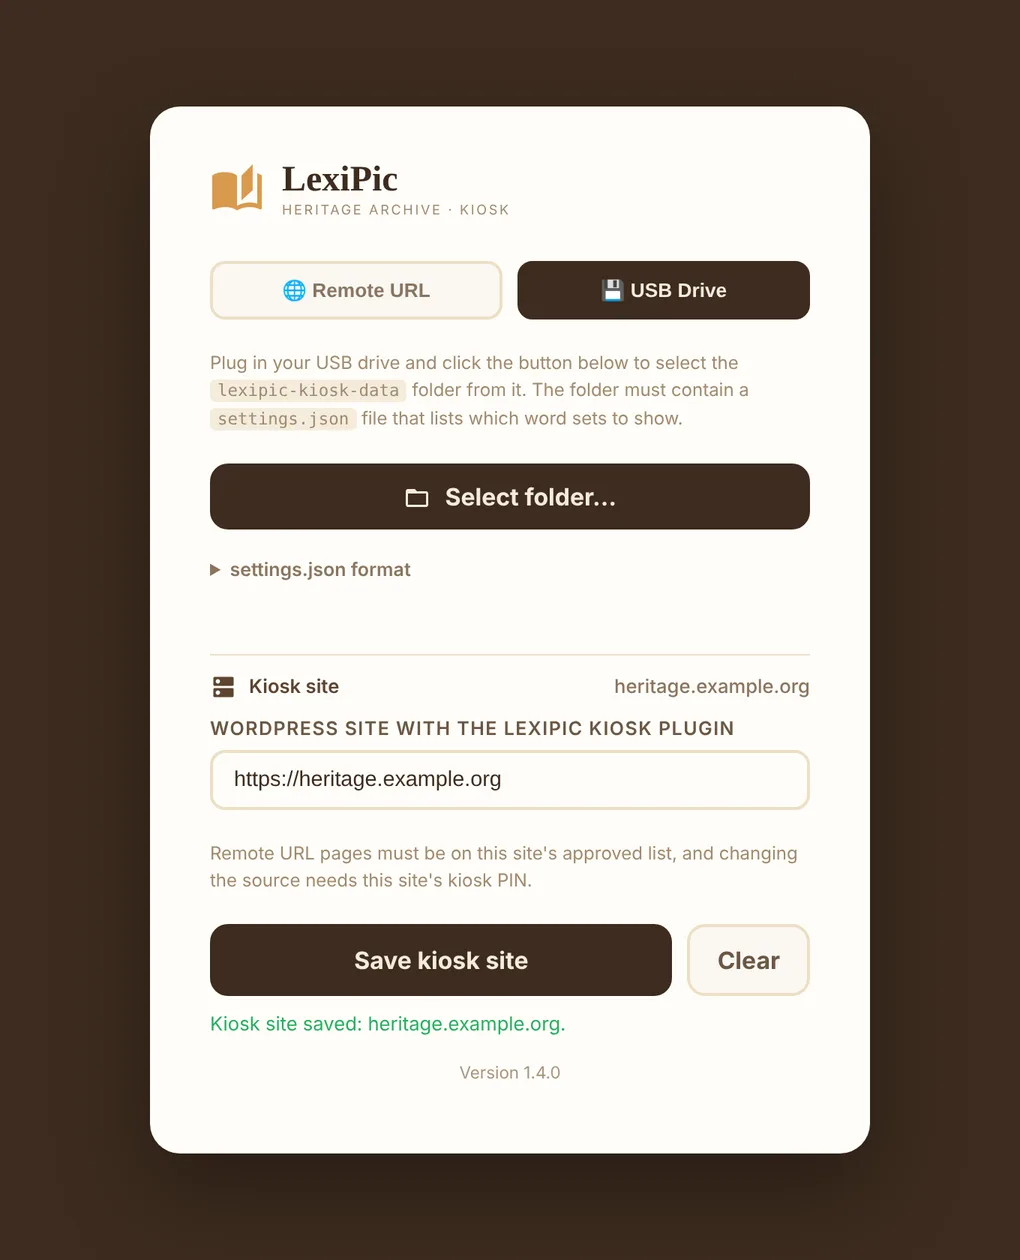
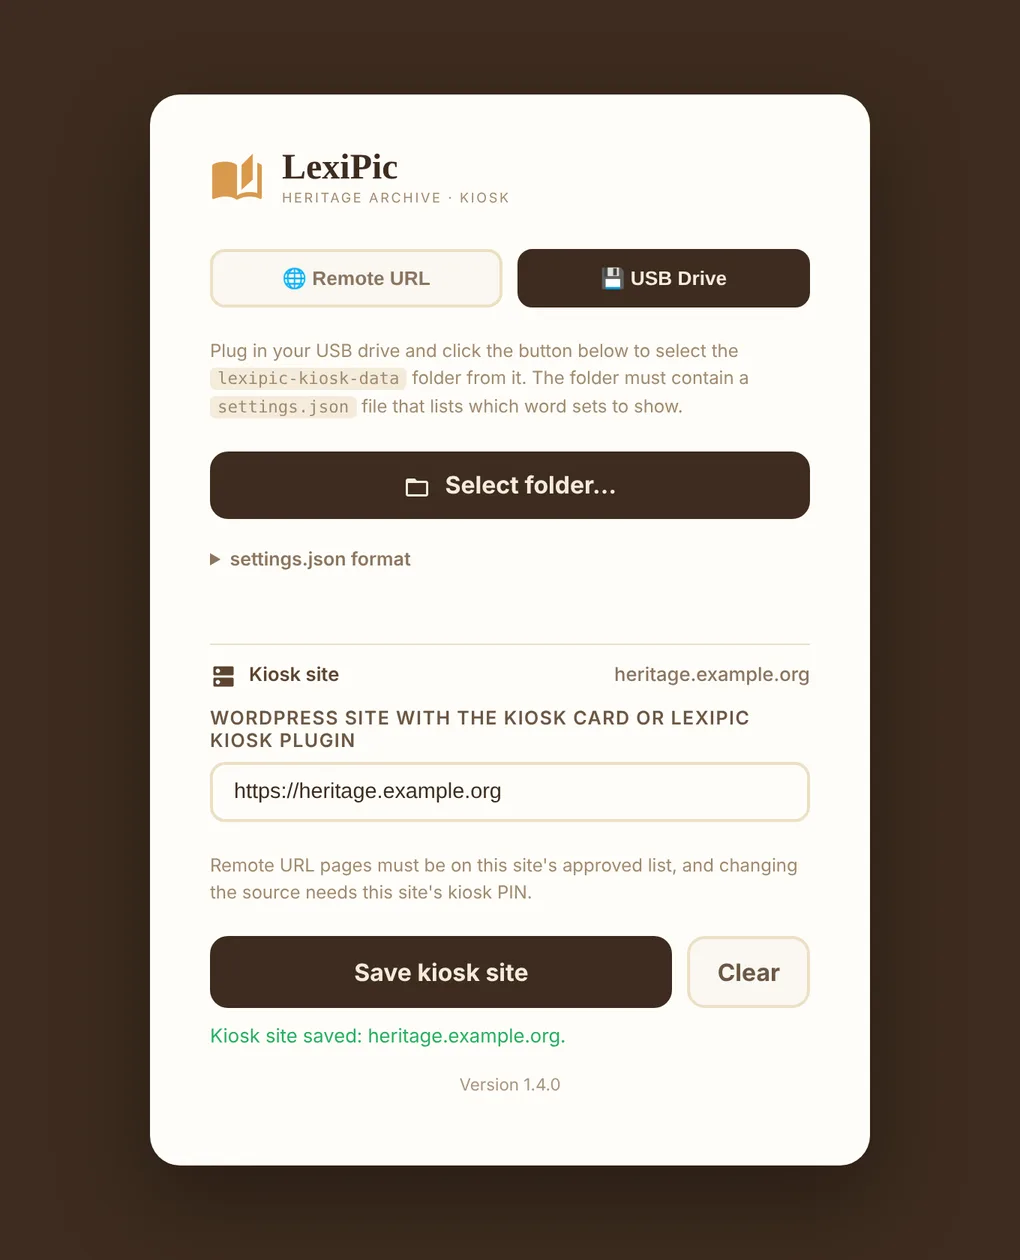
Add files via upload

diff --git a/lexipic/index.html b/lexipic/index.html
@@ -500,14 +500,14 @@ td:first-child code{white-space:nowrap}
 <p>USB mode needs <b>Chrome or Edge</b> (version 86 or later). It works whether or not a <a href="#kiosk-site">kiosk site</a> is set. After a restart the kiosk reopens the same folder by itself. If the browser wants permission again, a <span class="ui">Reconnect to saved USB folder</span> button appears. One tap reconnects, without picking the folder again.</p>
 
 <h2 id="kiosk-site">The kiosk site</h2>
-<p>The <b>kiosk site</b> is the WordPress site running the LexiPic Kiosk plugin. It provides two things: the list of approved pages for Remote URL, and the kiosk PIN. No site is built into the app. A new kiosk starts with none, and you enter it under <span class="ui">Kiosk site</span> at the bottom of the setup card.</p>
+<p>The <b>kiosk site</b> is a WordPress site running the <b>Kiosk Card plugin</b> (version 1.7.0 or later) or the <b>LexiPic Kiosk plugin</b>. It provides two things: the list of approved pages for Remote URL, and the kiosk PIN. No site is built into the app. A new kiosk starts with none, and you enter it under <span class="ui">Kiosk site</span> at the bottom of the setup card.</p>
 <div class="side-by">
-<figure><img class="zoom" src="img/kc-setup-url.webp" alt="A new kiosk's setup card: Remote URL selected, and below it the Kiosk site section open, marked Not set, with an empty box for the WordPress site with the LexiPic Kiosk plugin, a note that with no kiosk site Remote URL can't be used and changing the source is not PIN-protected while USB Drive works without one, and a Save kiosk site button" width="1020" height="1260" loading="lazy"><figcaption>A new kiosk: no kiosk site yet.</figcaption></figure>
+<figure><img class="zoom" src="img/kc-setup-url.webp" alt="A new kiosk's setup card: Remote URL selected, and below it the Kiosk site section open, marked Not set, with an empty box for the WordPress site with the Kiosk Card or LexiPic Kiosk plugin, a note that with no kiosk site Remote URL can't be used and changing the source is not PIN-protected while USB Drive works without one, and a Save kiosk site button" width="1020" height="1260" loading="lazy"><figcaption>A new kiosk: no kiosk site yet.</figcaption></figure>
 <figure><img class="zoom" src="img/kc-site-saved.webp" alt="The setup card after saving: Kiosk site heritage.example.org, the box showing https://heritage.example.org, a note that Remote URL pages must be on this site's approved list and changing the source needs this site's kiosk PIN, Save kiosk site and Clear buttons, and the message Kiosk site saved: heritage.example.org" width="1020" height="1260" loading="lazy"><figcaption>Kiosk site saved.</figcaption></figure>
 </div>
 <ol class="steps">
 <li>Type the site’s address, for example <code>https://example.org</code>. Plain <code>example.org</code> works too, and <code>https://</code> is added for you. If WordPress lives in a sub-folder, include it: <code>https://example.org/wp</code>.</li>
-<li>Press <span class="ui">Save kiosk site</span>. The kiosk first checks that the LexiPic Kiosk plugin answers at that address. If it doesn’t, nothing is saved and the message says why.</li>
+<li>Press <span class="ui">Save kiosk site</span>. The kiosk first checks that the site answers as a kiosk site. If it doesn’t, nothing is saved and the message says why.</li>
 </ol>
 <p>Only <code>https://</code> addresses are accepted, except <code>http://localhost</code> for testing. The address is saved on this kiosk only. <span class="ui">Clear</span> removes it after asking.</p>
 <table class="tbl">
@@ -520,8 +520,19 @@ td:first-child code{white-space:nowrap}
 </tbody></table>
 <div class="note warn"><b class="k">Set a kiosk site on public kiosks</b> Without one there is no PIN, so anyone who taps <span class="ui">⚙ source</span> can change what the kiosk shows. On a kiosk that visitors can reach, set the kiosk site so the PIN protects it, even if the kiosk only uses a USB drive.</div>
 
+<h3 id="plugin-kiosk-site">Setting up the kiosk site in the Kiosk Card plugin</h3>
+<p>In WordPress, go to <b>Kiosk Card</b> and find the <b>Kiosk Card app: kiosk site</b> card.</p>
+<figure><img class="zoom" src="img/plugin-kiosk-site.webp" alt="The Kiosk Card plugin's admin card 'Kiosk Card app: kiosk site': a ticked box 'Let the Kiosk Card app use this site as its kiosk site'; Address for the app with a Copy button; Approved domains, one per line; Kiosk PIN with 'A PIN is set', New PIN and Repeat boxes and Remove the PIN; Save app settings" width="1600" height="947" loading="lazy"><figcaption>The plugin’s kiosk-site settings, here on a test site.</figcaption></figure>
+<ol class="steps">
+<li>Tick <b>Let the Kiosk Card app use this site as its kiosk site</b>. It is off until you do.</li>
+<li>Under <b>Approved domains</b>, list the host names whose pages kiosks may show, one per line, such as <code>museum.example.org</code>. Pasted addresses are cut down to their host name. This site is listed to start with, so kiosks can show its own kiosk page.</li>
+<li>Type a <b>Kiosk PIN</b> of 4 to 12 digits twice. It is stored only as a hash. After five wrong tries from one address, the site refuses further tries for up to ten minutes.</li>
+<li>Press <span class="ui">Save app settings</span>, then copy the <b>Address for the app</b> and enter it under <span class="ui">Kiosk site</span> on each kiosk.</li>
+</ol>
+<p>The app needs WordPress addresses of the form <code>/wp-json/…</code>, so Settings › Permalinks must not be “Plain”; the card says so if it is. If the LexiPic Kiosk plugin is also active and already provides the kiosk site, Kiosk Card leaves it to that plugin and says so on the card.</p>
+
 <h2 id="url-mode">Remote URL</h2>
-<p><span class="ui">Remote URL</span> shows a kiosk web page full screen, such as a LexiPic Kiosk WordPress site’s kiosk page. It needs a <a href="#kiosk-site">kiosk site</a> and a connection. Enter the page’s full address and press <span class="ui">Display This URL</span>.</p>
+<p><span class="ui">Remote URL</span> shows a kiosk web page full screen, such as the kiosk page of a site with the Kiosk Card plugin. It needs a <a href="#kiosk-site">kiosk site</a> and a connection. Enter the page’s full address and press <span class="ui">Display This URL</span>.</p>
 <ul>
 <li>The page’s site must be on the kiosk site’s approved list. The hostname must match exactly. If the list cannot be reached and none is saved from before, the address is refused.</li>
 <li>If the page cannot be reached, a “Can’t reach the page” screen appears, and the kiosk tries again every few seconds until it loads.</li>
@@ -530,7 +541,7 @@ td:first-child code{white-space:nowrap}
 </ul>
 
 <h2 id="change-source">Changing the source (PIN)</h2>
-<p>Once a source is set, a small <span class="ui">⚙ source</span> button sits in the corner. With a kiosk site set, it asks for the kiosk PIN. This is the same PIN as the LexiPic Kiosk WordPress plugin’s kiosk admin, managed in WordPress. The PIN is checked by the kiosk site each time and never stored on the kiosk, so this needs a connection. After several wrong tries the kiosk asks you to wait a minute.</p>
+<p>Once a source is set, a small <span class="ui">⚙ source</span> button sits in the corner. With a kiosk site set, it asks for the kiosk PIN. The PIN is set in the plugin, in WordPress (see below). The PIN is checked by the kiosk site each time and never stored on the kiosk, so this needs a connection. After several wrong tries the kiosk asks you to wait a minute.</p>
 <div class="side-by">
 <figure><img class="zoom" src="img/kc-pin.webp" alt="A small card over the kiosk: Enter PIN to change source, a PIN box, Cancel and Unlock" width="1020" height="1260" loading="lazy"><figcaption>Changing the source.</figcaption></figure>
 <figure><img class="zoom" src="img/kc-site-pin.webp" alt="A card over the setup screen: Enter the PIN of heritage.example.org to change the kiosk site, a PIN box, Cancel and Unlock" width="1020" height="1260" loading="lazy"><figcaption>Changing the kiosk site asks for the current site’s PIN.</figcaption></figure>
@@ -610,7 +621,7 @@ td:first-child code{white-space:nowrap}
 <dt>The kiosk won’t accept a web address.</dt>
 <dd>Either no <a href="#kiosk-site">kiosk site</a> is set, the page’s site is not on its approved list, or the list could not be fetched. Ask the WordPress site’s administrator to add the domain.</dd>
 <dt>Saving the kiosk site fails.</dt>
-<dd>The LexiPic Kiosk plugin must be active at that address and the site online. Check for typos, and include the sub-folder if WordPress is installed in one.</dd>
+<dd>The site must be online with the kiosk site switched on in its Kiosk Card plugin (or the LexiPic Kiosk plugin active), and its permalinks must not be “Plain”. Check for typos, and include the sub-folder if WordPress is installed in one.</dd>
 <dt>The PIN is refused or can’t be checked.</dt>
 <dd>The PIN is checked by the kiosk site, so the kiosk needs a connection. After several wrong attempts, wait a minute.</dd>
 <dt>Anyone can change what the kiosk shows.</dt>
@@ -637,7 +648,7 @@ td:first-child code{white-space:nowrap}
 <tr><td><code>GET <i>site</i>/wp-json/lexipic-kiosk/v1/allowlist</code></td><td>Returns <code>{ "domains": [ … ] }</code>, the approved hostnames for Remote URL.</td></tr>
 <tr><td><code>POST <i>site</i>/wp-json/lexipic-kiosk/v1/pin/verify</code></td><td>Takes <code>{ "pin": "…" }</code>; HTTP 200 means correct, 429 means too many attempts.</td></tr>
 </tbody></table>
-<p>The approved domains and the PIN are managed in WordPress, not on the kiosk. Kiosk Card’s <code>README.md</code> has the full details.</p>
+<p>The Kiosk Card plugin (1.7.0 or later) provides these addresses while its kiosk site is switched on (see <a href="#plugin-kiosk-site">Setting up the kiosk site in the Kiosk Card plugin</a>); the LexiPic Kiosk plugin provides the same ones. The approved domains and the PIN are managed in WordPress, not on the kiosk. Kiosk Card’s <code>README.md</code> and the plugin’s <code>readme.txt</code> have the full details.</p>
 
 <h2 id="code-files">Right-click and code files</h2>
 <p>In LexiPic, right-click is off; text fields have a small Copy and Paste menu instead. Opening a <code>.js</code> or <code>.css</code> address returns to the app: <code>sw.js</code> handles this after the first visit, and <code>.htaccess</code> handles it on Apache from the first visit. On other servers, redirect when <code>Sec-Fetch-Dest</code> is <code>document</code> and refuse when it is <code>empty</code>. Kiosk Card blocks right-click and long press. Both measures only deter casual copying.</p>
@@ -663,6 +674,8 @@ td:first-child code{white-space:nowrap}
 <div class="changes">
 <h3><span class="v">LexiPic 2.3.3</span> A web link for each word</h3>
 <ul><li>Optional <a href="#link-field">Link</a> and Link button text on each word, shown as a button on the card and on the kiosk; searchable; saved in exports and backups.</li></ul>
+<h3><span class="v">Kiosk Card plugin 1.7.0</span> Kiosk site for the app</h3>
+<ul><li>The WordPress plugin can act as the app’s <a href="#plugin-kiosk-site">kiosk site</a>: approved domains and a hashed, rate-limited kiosk PIN, under Kiosk Card › Kiosk Card app: kiosk site. Off by default.</li></ul>
 <h3><span class="v">Kiosk Card 1.4.0</span> Kiosk site set on the kiosk</h3>
 <ul><li>The WordPress site that supplies the approved pages and the PIN is no longer built in. It is empty by default and set under <a href="#kiosk-site">Kiosk site</a> on the setup card; it is checked before saving, and changing it needs the current site’s PIN. The version is shown on the setup card.</li></ul>
 <h3><span class="v">Kiosk Card 1.3.0</span> Link buttons</h3>
